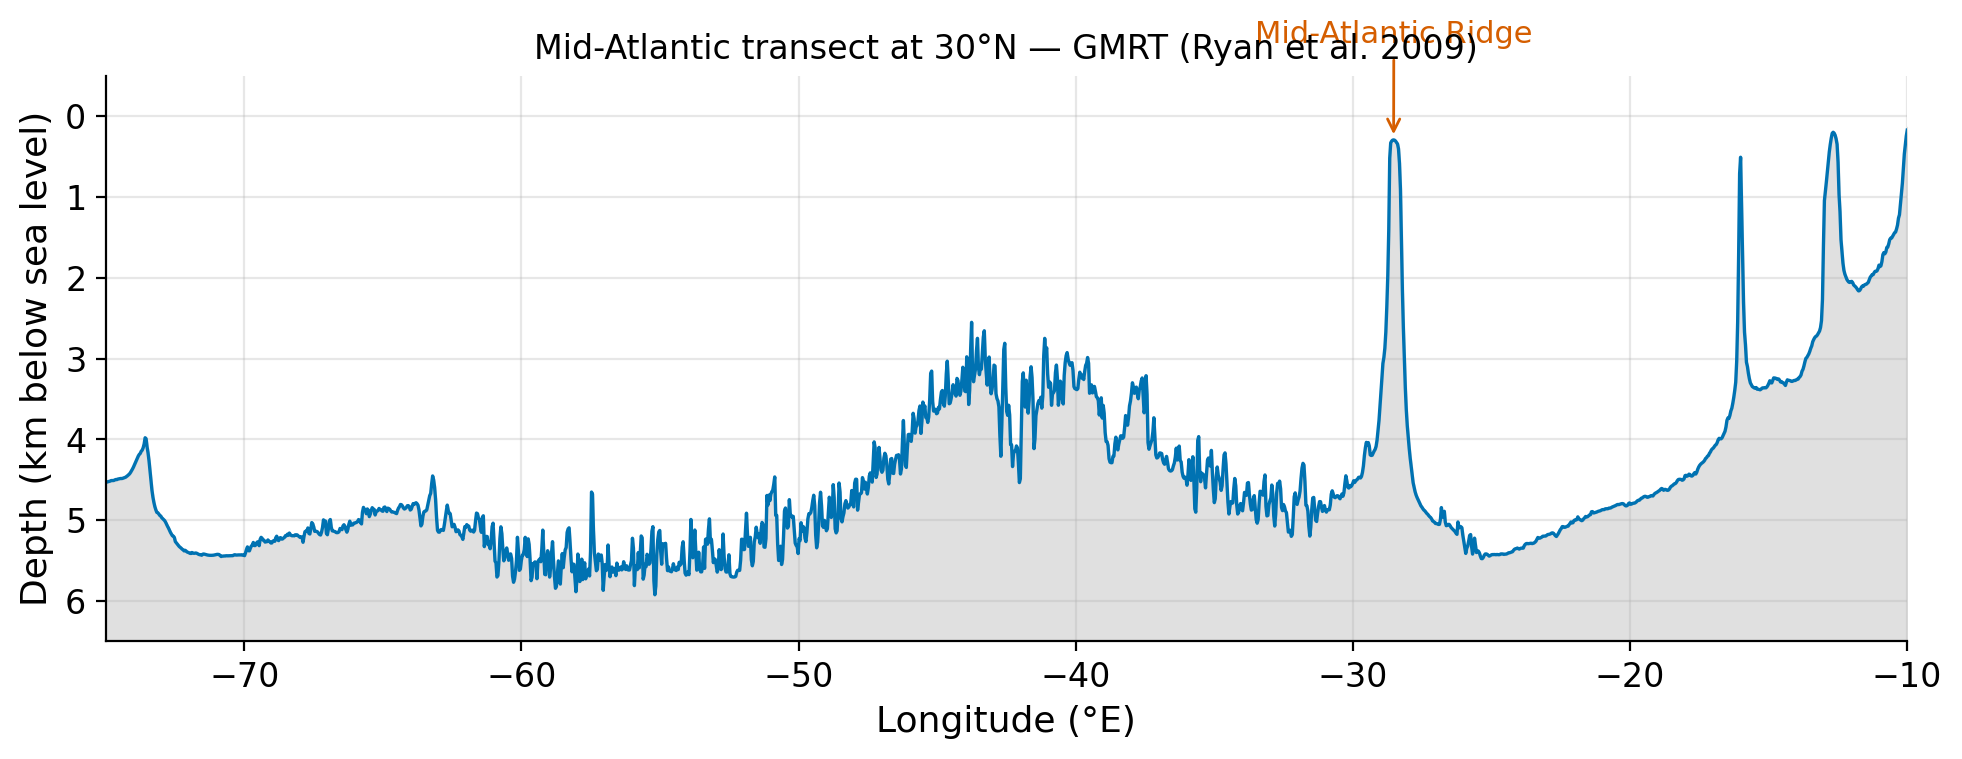
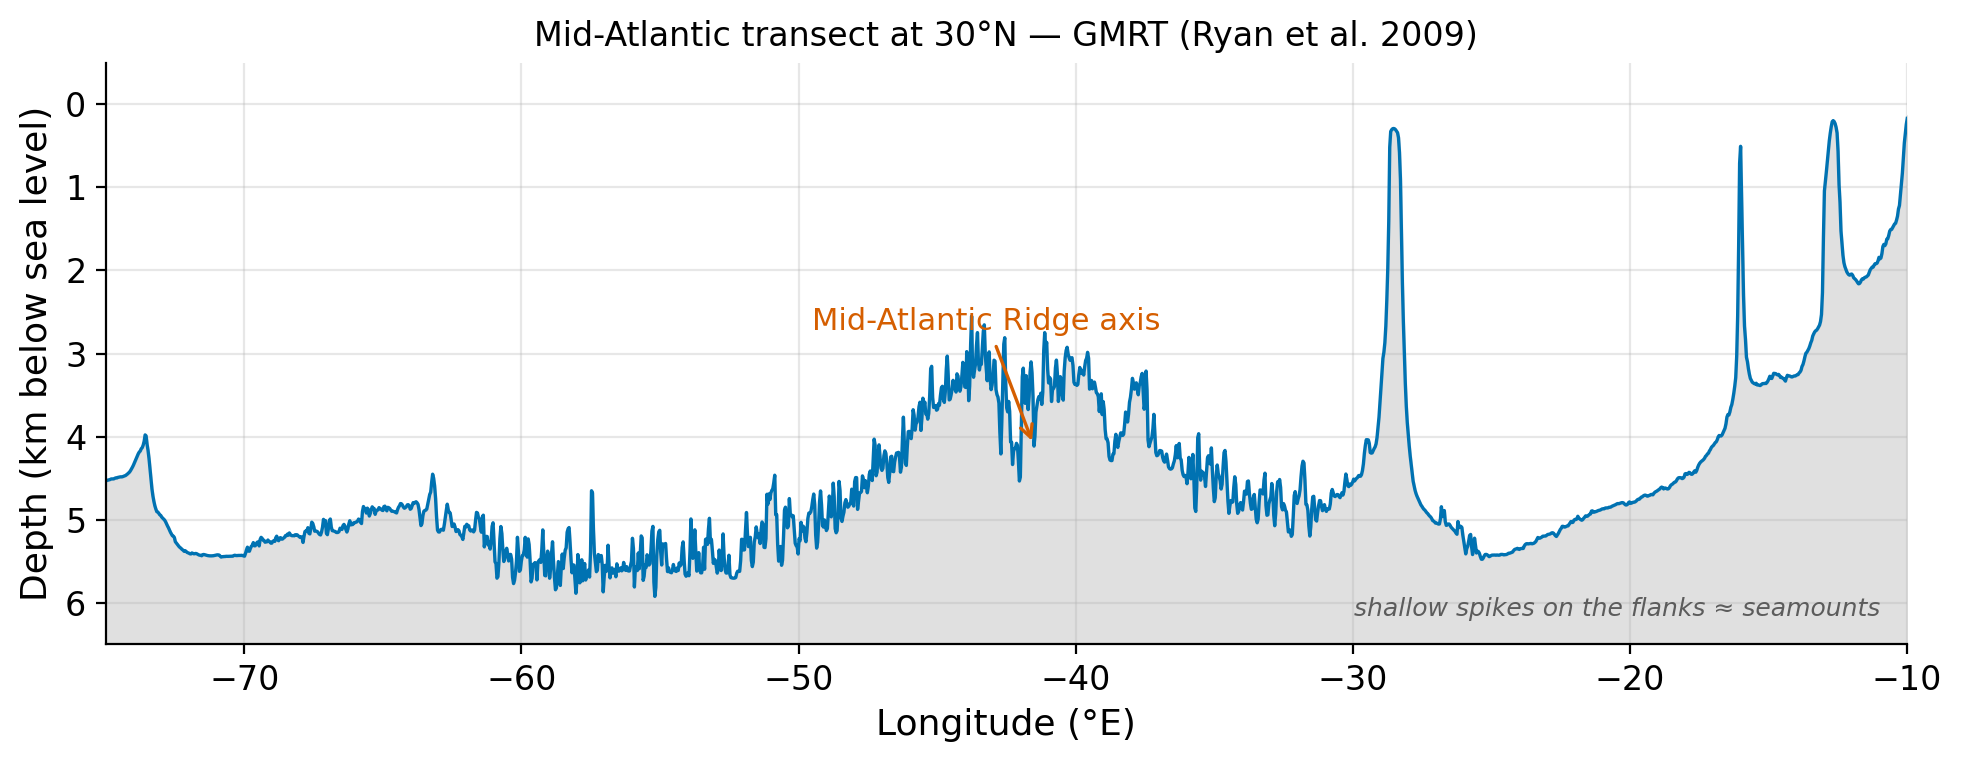
update L26

diff --git a/assets/scripts/fig_26_global_moho_hero.py b/assets/scripts/fig_26_global_moho_hero.py
@@ -1,0 +1,86 @@
+"""F0 — Hero figure: global CRUST1.0 Moho depth.
+
+Same data source as F12 (CRUST1.0 depth-to-Moho XYZ, Laske 2013) but
+plotted globally so the oceanic-vs-continental thickness contrast jumps
+out at first glance: oceans sit at ~7–10 km Moho depth, continents at
+30–50 km, cratonic roots near 55–70 km.
+
+Writes assets/figures/F0_global_moho.png.
+"""
+from __future__ import annotations
+
+from pathlib import Path
+import sys
+
+import numpy as np
+import matplotlib.pyplot as plt
+
+sys.path.insert(0, str(Path(__file__).parent))
+from _style import COLORS, apply_style  # noqa: E402
+
+apply_style()
+
+ROOT = Path(__file__).resolve().parent.parent
+OUT = ROOT / "figures" / "F0_global_moho.png"
+CACHE = ROOT / "data" / "crust1_depthtomoho.xyz"
+
+
+def main() -> None:
+    if not CACHE.exists():
+        raise SystemExit("Run fig_26_north_america_moho.py first to populate CRUST1.0 cache.")
+
+    data = np.loadtxt(CACHE)
+    lon, lat, moho = data[:, 0], data[:, 1], data[:, 2]
+    moho_pos = -moho if np.nanmean(moho) < 0 else moho
+
+    lons = np.arange(-179.5, 180.0, 1.0)
+    lats = np.arange(-89.5, 90.0, 1.0)
+    grid = np.full((lats.size, lons.size), np.nan)
+    j = np.round(lon - lons[0]).astype(int) % lons.size
+    i = np.round(lat - lats[0]).astype(int)
+    valid = (i >= 0) & (i < lats.size)
+    grid[i[valid], j[valid]] = moho_pos[valid]
+
+    fig, ax = plt.subplots(figsize=(13.5, 6.4))
+    im = ax.imshow(
+        grid,
+        extent=(lons.min(), lons.max(), lats.min(), lats.max()),
+        origin="lower",
+        cmap="viridis",
+        aspect="equal",
+        vmin=5, vmax=65,
+    )
+    cb = fig.colorbar(im, ax=ax, shrink=0.78, pad=0.02,
+                      label="Moho depth (km below sea level)")
+    cb.outline.set_visible(False)
+
+    # Pedagogical annotations: oceanic vs continental
+    ax.annotate("Oceanic crust\n~7–10 km", xy=(-150, -20), xytext=(-150, -45),
+                ha="center", color="white", fontsize=11, fontweight="bold",
+                arrowprops=dict(arrowstyle="->", color="white", lw=1.2))
+    ax.annotate("Continental crust\n30–45 km", xy=(60, 35), xytext=(75, 5),
+                ha="center", color="white", fontsize=11, fontweight="bold",
+                arrowprops=dict(arrowstyle="->", color="white", lw=1.2))
+    ax.annotate("Cratonic roots\n50–65 km", xy=(95, 55), xytext=(140, 75),
+                ha="center", color="white", fontsize=11, fontweight="bold",
+                arrowprops=dict(arrowstyle="->", color="white", lw=1.2))
+    ax.annotate("Andean / Tibetan\norogens >60 km", xy=(-70, -20),
+                xytext=(-100, -55), ha="center",
+                color="white", fontsize=11, fontweight="bold",
+                arrowprops=dict(arrowstyle="->", color="white", lw=1.2))
+
+    ax.set_xlabel("Longitude (°E)")
+    ax.set_ylabel("Latitude (°N)")
+    ax.set_title("Global Moho depth — CRUST1.0 (Laske et al. 2013)",
+                 loc="left", fontsize=14)
+    ax.set_xlim(-180, 180)
+    ax.set_ylim(-85, 85)
+    ax.grid(alpha=0.2, color="white", lw=0.3)
+
+    fig.tight_layout()
+    fig.savefig(OUT, bbox_inches="tight")
+    print(f"[F0] wrote {OUT}")
+
+
+if __name__ == "__main__":
+    main()

diff --git a/assets/scripts/fig_26_matlantic_transect.py b/assets/scripts/fig_26_matlantic_transect.py
@@ -70,18 +70,24 @@ def main() -> None:
                     color=COLORS["lightgrey"], alpha=0.6, zorder=1)
     ax.plot(lon, depth_km, color=COLORS["blue"], lw=1.2, zorder=2)
 
-    # Mark the Mid-Atlantic Ridge axis (shallowest point in central Atlantic)
-    centre = (lon > -45) & (lon < -25)
-    if centre.any():
-        mar_lon = lon[centre][np.argmin(depth_km[centre])]
-        mar_depth = depth_km[centre].min()
-        ax.annotate(
-            "Mid-Atlantic Ridge",
-            xy=(mar_lon, mar_depth),
-            xytext=(mar_lon - 5, mar_depth - 1.2),
-            arrowprops=dict(arrowstyle="->", color=COLORS["vermilion"], lw=1),
-            color=COLORS["vermilion"], fontsize=11,
-        )
+    # Mark the Mid-Atlantic Ridge axis. At 30°N the spreading centre sits
+    # near -41.5°E (between the Atlantis and Kane fracture zones); the
+    # shallow spikes on the flanks are seamounts, not the axis.
+    MAR_LON = -41.5
+    i_mar = int(np.argmin(np.abs(lon - MAR_LON)))
+    mar_lon = lon[i_mar]
+    mar_depth = depth_km[i_mar]
+    ax.annotate(
+        "Mid-Atlantic Ridge axis",
+        xy=(mar_lon, mar_depth),
+        xytext=(mar_lon - 8, mar_depth - 1.4),
+        arrowprops=dict(arrowstyle="->", color=COLORS["vermilion"], lw=1.2),
+        color=COLORS["vermilion"], fontsize=11,
+    )
+    # Label the shallow flank features as seamounts (not the ridge)
+    ax.text(0.985, 0.04, "shallow spikes on the flanks ≈ seamounts",
+            transform=ax.transAxes, ha="right", va="bottom",
+            fontsize=9, color=COLORS["grey"], style="italic")
 
     ax.set_ylim(6.5, -0.5)  # depth axis: deep at bottom, NO invert_yaxis
     ax.set_xlim(LON_W, LON_E)

diff --git a/slides/lecture_26_slides.md b/slides/lecture_26_slides.md
@@ -8,7 +8,7 @@ footer: 'Module 7 · Tectonics, Lithosphere, and the Cooling Earth'
 math: katex
 ---
 
-<!-- _class: title -->
+<!-- _class: title-slide -->
 
 # Lithosphere: Oceanic vs. Continental
 
@@ -17,6 +17,16 @@ math: katex
 #### Module 7: Tectonics, Lithosphere, and the Cooling Earth
 
 University of Washington · Earth & Space Sciences
+
+---
+
+<!-- _class: fig-full -->
+
+# A planet of two crusts
+
+![Global Moho depth from CRUST1.0 (Laske et al. 2013) — oceans ~7–10 km, continents 30–45 km, cratonic roots and orogens >55 km.](../assets/figures/F0_global_moho.png)
+
+**CRUST1.0 Moho depth (Laske et al. 2013)** — the single map that frames the whole lecture: oceanic crust ~7–10 km, continental crust 30–45 km, cratonic and orogenic roots >55 km. *Same data, two regimes.*
 
 ---
 
